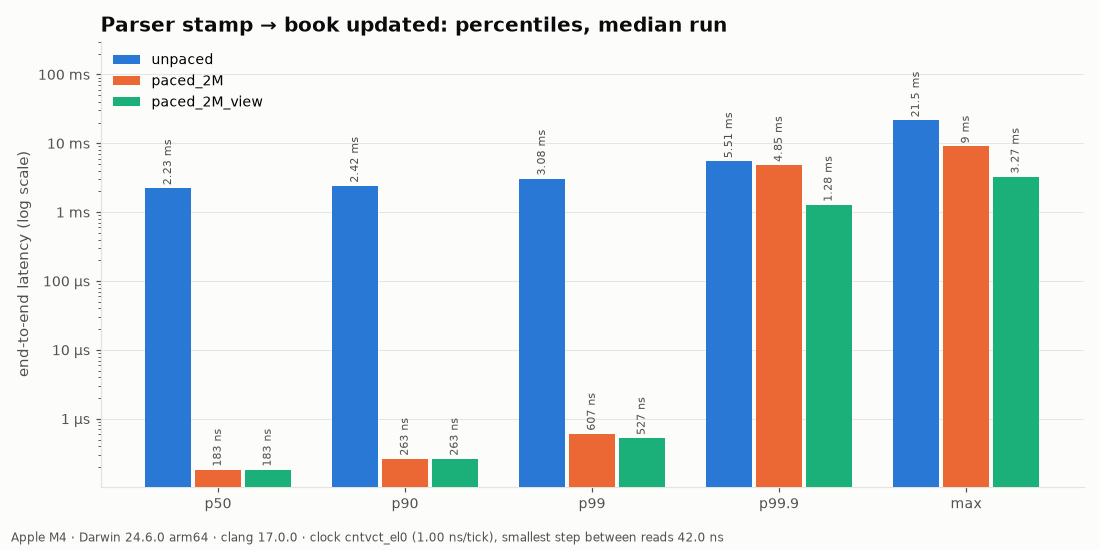
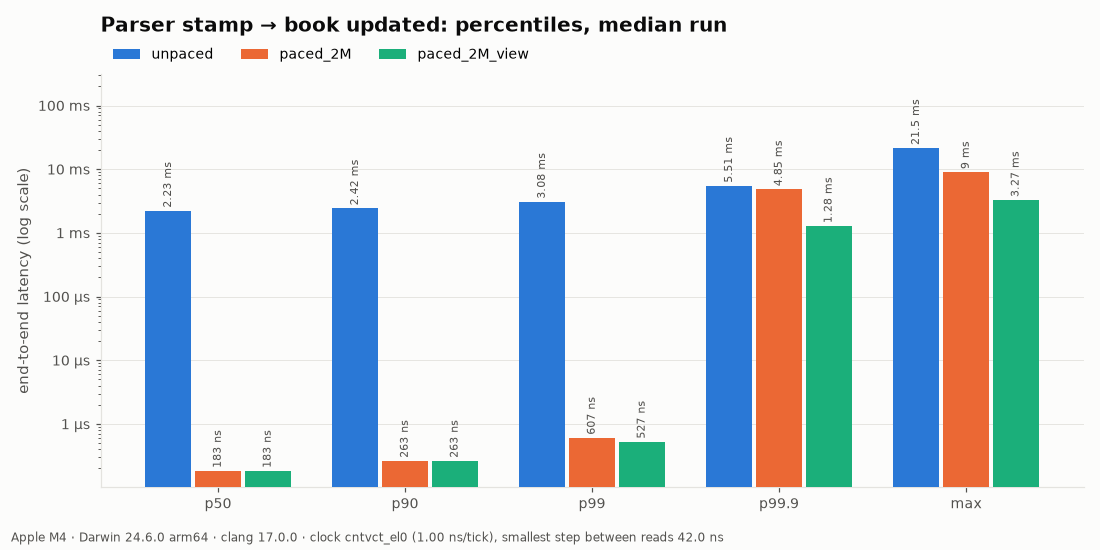
README: headline results from the sampled-latency Linux run
- Linux run 36891000656 (1-in-16 sampling): unpaced 7.69M msgs/s; paced
  2M msgs/s p50 466 ns, p90 680 ns, p99 2.99-3.25 us across all five runs
- every-message configuration alongside: p99 4.37-5.33 us, so full timing
  inflated the tail by ~50%; p50, p99.9 and max unchanged
- notes that the queue/book split is approximate (rdtsc is unordered)
- DESIGN section 10: sampling done; next is ordered timestamps on samples
- percentile chart legend moved above the plot

diff --git a/scripts/plot_results.py b/scripts/plot_results.py
@@ -185,8 +185,8 @@ def chart_percentiles(stats, out, configs, host):
     ax.set_ylim(top=ax.get_ylim()[1] * 8)  # room for rotated labels
     ax.yaxis.set_major_formatter(FuncFormatter(fmt_ns))
     ax.set_ylabel("end-to-end latency (log scale)")
-    ax.set_title("Parser stamp → book updated: percentiles, median run")
-    ax.legend(loc="upper left")
+    ax.set_title("Parser stamp → book updated: percentiles, median run", pad=28)
+    ax.legend(loc="lower left", bbox_to_anchor=(0, 1.0), ncol=len(configs), frameon=False)
     caption(fig, host)
     fig.tight_layout(rect=(0, 0.04, 1, 1))
     fig.savefig(out / "latency_percentiles.png")

diff --git a/README.md b/README.md
@@ -15,13 +15,15 @@ state.
 ## Results
 
 Pinned-core run on Linux, produced by the [Linux benchmark workflow](.github/workflows/benchmark.yml)
-([run](https://github.com/Tharun-Maheswararao/itch_feed_handler/actions/runs/36871008026),
+([run](https://github.com/Tharun-Maheswararao/itch_feed_handler/actions/runs/36891000656),
 [summary](results/linux/SUMMARY.md)).
 
 > **Host:** AWS `c7i.2xlarge`, Intel Xeon Platinum 8488C (4 physical / 8
 > logical cores), Ubuntu 24.04 (kernel 7.0), gcc 13.3.0, `-O3 -march=native`.
 > Parser and book thread **pinned to two separate physical cores**. Clock:
-> `rdtsc`, 0.42 ns per tick.
+> `rdtsc`, 0.42 ns per tick. Latency is measured on a **random 1-in-16 sample**
+> of messages (16.5 M samples per run, see below why); one configuration
+> times every message for comparison.
 
 **Correctness: the optimized two-thread pipeline equals the golden model.**
 
@@ -41,40 +43,55 @@ history is rebuilt on both.
 **End-to-end latency** (parser stamp → book updated), full day, median of 5
 runs after 1 warmup:
 
-| Configuration | Book msgs | Throughput | p50 | p90 | p99 | p99.9 | max |
+| Configuration | Timed | Throughput | p50 | p90 | p99 | p99.9 | max |
 |---|---:|---:|---:|---:|---:|---:|---:|
-| **unpaced** | 263.3 M | **3.18 M msgs/s** (3.07–3.23) | 5.24 ms | 5.46 ms | 6.01 ms | 7.21 ms | 7.55 ms |
-| **paced 2 M msgs/s** | 263.3 M | 2.00 M msgs/s | **506 ns** | **693 ns** | **4.48 µs** | 9.39 µs | 1.29 ms |
-| paced 2 M msgs/s, **live view on** | 263.3 M | 2.00 M msgs/s | 506 ns | 693 ns | 4.27 µs | 9.17 µs | 1.30 ms |
+| **unpaced** | 1/16 | **7.69 M msgs/s** (7.47–7.73) | 2.13 ms | 2.29 ms | 2.68 ms | 3.71 ms | 4.50 ms |
+| **paced 2 M msgs/s** | 1/16 | 2.00 M msgs/s | **466 ns** | **680 ns** | **3.09 µs** | 8.75 µs | 1.30 ms |
+| paced 2 M msgs/s, **live view on** | 1/16 | 2.00 M msgs/s | 480 ns | 706 ns | 3.25 µs | 8.75 µs | 1.28 ms |
+| paced 2 M msgs/s, every message timed | all | 2.00 M msgs/s | 466 ns | 693 ns | 4.59 µs | 8.75 µs | 1.28 ms |
 
-Across all ten paced runs: p50 506–520 ns, p90 680–720 ns, and **p99
-4.16–4.59 µs**. Inside the pipeline, across all 15 runs, the book update alone
-(t2 − t1) has p50 220–273 ns and p99 533–653 ns; queue wait at 2 M msgs/s has
-p50 266–280 ns.
+Across the five paced runs: p50 466 ns in every run, p90 680 ns, and **p99
+2.99–3.25 µs**. Book update alone (t2 − t1): p50 150–153 ns, p99 586–600 ns.
+At 2 M msgs/s the ring never held more than 5,307 messages at a sample.
 
 **Components** ([micro_bench log](results/linux/logs/micro_bench.txt)), single
 threaded unless noted:
 
 | Component | Cost |
 |---|---|
-| Parser | **10.4 ns/msg: 96 M msgs/s**, 2.95 GB/s (full file in page cache) |
-| Golden book (`unordered_map` + `std::map`) | 272 ns per book message |
-| Fast book (open addressing + sorted vectors) | **82.5 ns per book message, 3.3× faster** |
-| SPSC ring, 48-byte messages, 2 threads, unpinned | 79 ns/msg (12.7 M msgs/s) |
+| Parser | **10.3 ns/msg: 97 M msgs/s**, 3.0 GB/s (full file in page cache) |
+| Golden book (`unordered_map` + `std::map`) | 319 ns per book message |
+| Fast book (open addressing + sorted vectors) | **86 ns per book message, 3.7× faster** |
+| SPSC ring, 48-byte messages, 2 threads, unpinned | 45.6 ns/msg at batch 1, 25.7 at batch 8, 16.4 at batch 32 |
 
 **How to read this:**
 
 * **Pinning makes the tail repeatable.** On the unpinned Mac, paced p99 ranged
   from 0.5 µs to 193 ms between runs. Pinned on Linux, over the full day
-  rather than a slice, it stayed within 4.2–4.6 µs. Stamps use the
-  *scheduled* arrival time (coordinated-omission correction), so stalls are
-  charged to latency rather than hidden.
+  rather than a slice, it stayed within 3.0–3.3 µs, and the every-message p99
+  (4.59 µs) reproduced the first Linux run (4.48 µs) on a different physical
+  host. Stamps use the *scheduled* arrival time (coordinated-omission
+  correction), so stalls are charged to latency rather than hidden.
+* **Why sample.** Timing a message costs two `rdtsc` reads and three histogram
+  updates, about as much as the book update itself. Timing every message
+  measured a pipeline running at half speed: unpaced throughput was 3.18 M
+  msgs/s, and the book thread's extra busy time added queueing that pushed
+  paced p99 to 4.4–5.3 µs. With a random 1-in-16 sample, unpaced throughput
+  is 7.69 M msgs/s (what the untimed pipeline does) and p99 is 3.0–3.3 µs.
+  p50, p99.9 and max are unchanged, so sampling does not hide spikes: each
+  timed message also records the ring depth, and a stall delays every message
+  behind it.
+* **The split between queue wait and book update is approximate.** `rdtsc`
+  does not wait for earlier instructions to finish, so where "queue" ends and
+  "book" begins is only good to tens of nanoseconds. Sampled and
+  every-message runs have the same end-to-end p50 (466 ns) but split it
+  320 + 153 and 246 + 233 ns. Use the end-to-end figures.
 * **Unpaced is a throughput test.** The parser is about 8× faster than the
   book, so the ring stays full and each message waits behind the ~16k ahead
-  of it. The 5.2 ms "latency" is that backlog (16384 × ~314 ns), not a
+  of it. The 2.1 ms "latency" is that backlog (16384 × 130 ns), not a
   property of the code.
-* **The live view does not affect the pipeline:** p50 and p90 are identical
-  with it on and off, and p99 differs by 0.2 µs, inside the run-to-run spread.
+* **The live view does not affect the pipeline.** With it on, p99 is
+  3.04–3.41 µs against 2.99–3.25 µs off: the ranges overlap.
 * **Why the pipeline costs more per message than its parts: diagnosed.**
   Single threaded, the fast book costs 82.5 ns per message, but inside the
   pipeline a book update took 220–280 ns. A dedicated run
@@ -86,7 +103,7 @@ threaded unless noted:
   | Single thread, untimed | 123 ns/msg | 8.16 M/s |
   | Single thread, timed with the pipeline's own clock reads | 220 ns/msg | 4.55 M/s |
   | Pipeline, untimed | 135 ns/msg | 7.41 M/s |
-  | Pipeline, timed (the configuration measured above) | 255 ns/msg | 3.92 M/s |
+  | Pipeline, every message timed | 255 ns/msg | 3.92 M/s |
   | Pipeline, timed, ring batch 8 | 232 ns/msg | 4.31 M/s |
   | Pipeline, timed, both threads on one core's hyperthreads | 241 ns/msg | 4.15 M/s |
 
@@ -106,9 +123,8 @@ threaded unless noted:
 
   At 2 M msgs/s batching did not help: p50 was 506 ns either way, and p99 was
   5.9–6.1 µs at batch 1 against 6.3–7.3 µs at batch 32. The default therefore
-  stays at batch 1; `--ring-batch 8` is the throughput setting. The biggest
-  remaining lever is cheaper measurement (for example, timing a sample of
-  messages), not the ring.
+  stays at batch 1; `--ring-batch 8` is the throughput setting. The fix for
+  the measurement cost is the sampling now used above.
 
 ### Charts
 

diff --git a/docs/DESIGN.md b/docs/DESIGN.md
@@ -248,17 +248,15 @@ with no screen recorder involved.
 
 ## 10. What I would change next
 
-1. **Cheaper latency measurement.** A diagnosis run on the pinned Xeon
-   ([report](../results/linux/diagnose/DIAGNOSE.md)) showed that the
-   per-message instrumentation (two `rdtsc` reads, three histogram updates)
-   costs about as much as the book update itself: throughput falls from
-   7.41 to 3.92 M msgs/s with timing on, while the untimed pipeline is
-   within 10% of a single thread. Timing a sample of messages (1 in 16 still
-   gives 16 M samples a day), or deriving queue wait from one read per
-   message, would recover most of that. Ring index batching (implemented,
-   `--ring-batch K`) cut the ring's extra L1 misses by 76% and helps
-   throughput by 6–10%, but did not improve paced latency, so it stays off
-   by default.
+1. **Cheaper timestamps for the split.** Sampling (§6) fixed the cost of
+   measurement: on the pinned Xeon, unpaced throughput rose from 3.18 to
+   7.69 M msgs/s and paced p99 fell from 4.4–5.3 to 3.0–3.3 µs, with p50,
+   p99.9 and max unchanged. What remains is precision: `rdtsc` is not
+   ordered, so the queue/book split is only good to tens of ns.
+   `rdtscp` + `lfence` on the sampled messages only would sharpen it at a
+   cost paid 1 time in 16. Ring index batching (`--ring-batch K`) stays off
+   by default: +6–10% unpaced throughput, no paced-latency gain
+   ([diagnosis](../results/linux/diagnose/DIAGNOSE.md)).
 2. **32-byte messages** by bit-packing side, type and locate. That puts two
    messages per 64-byte line and halves ring bandwidth.
 3. **Store a level handle in the order.** A price-indexed array around the
